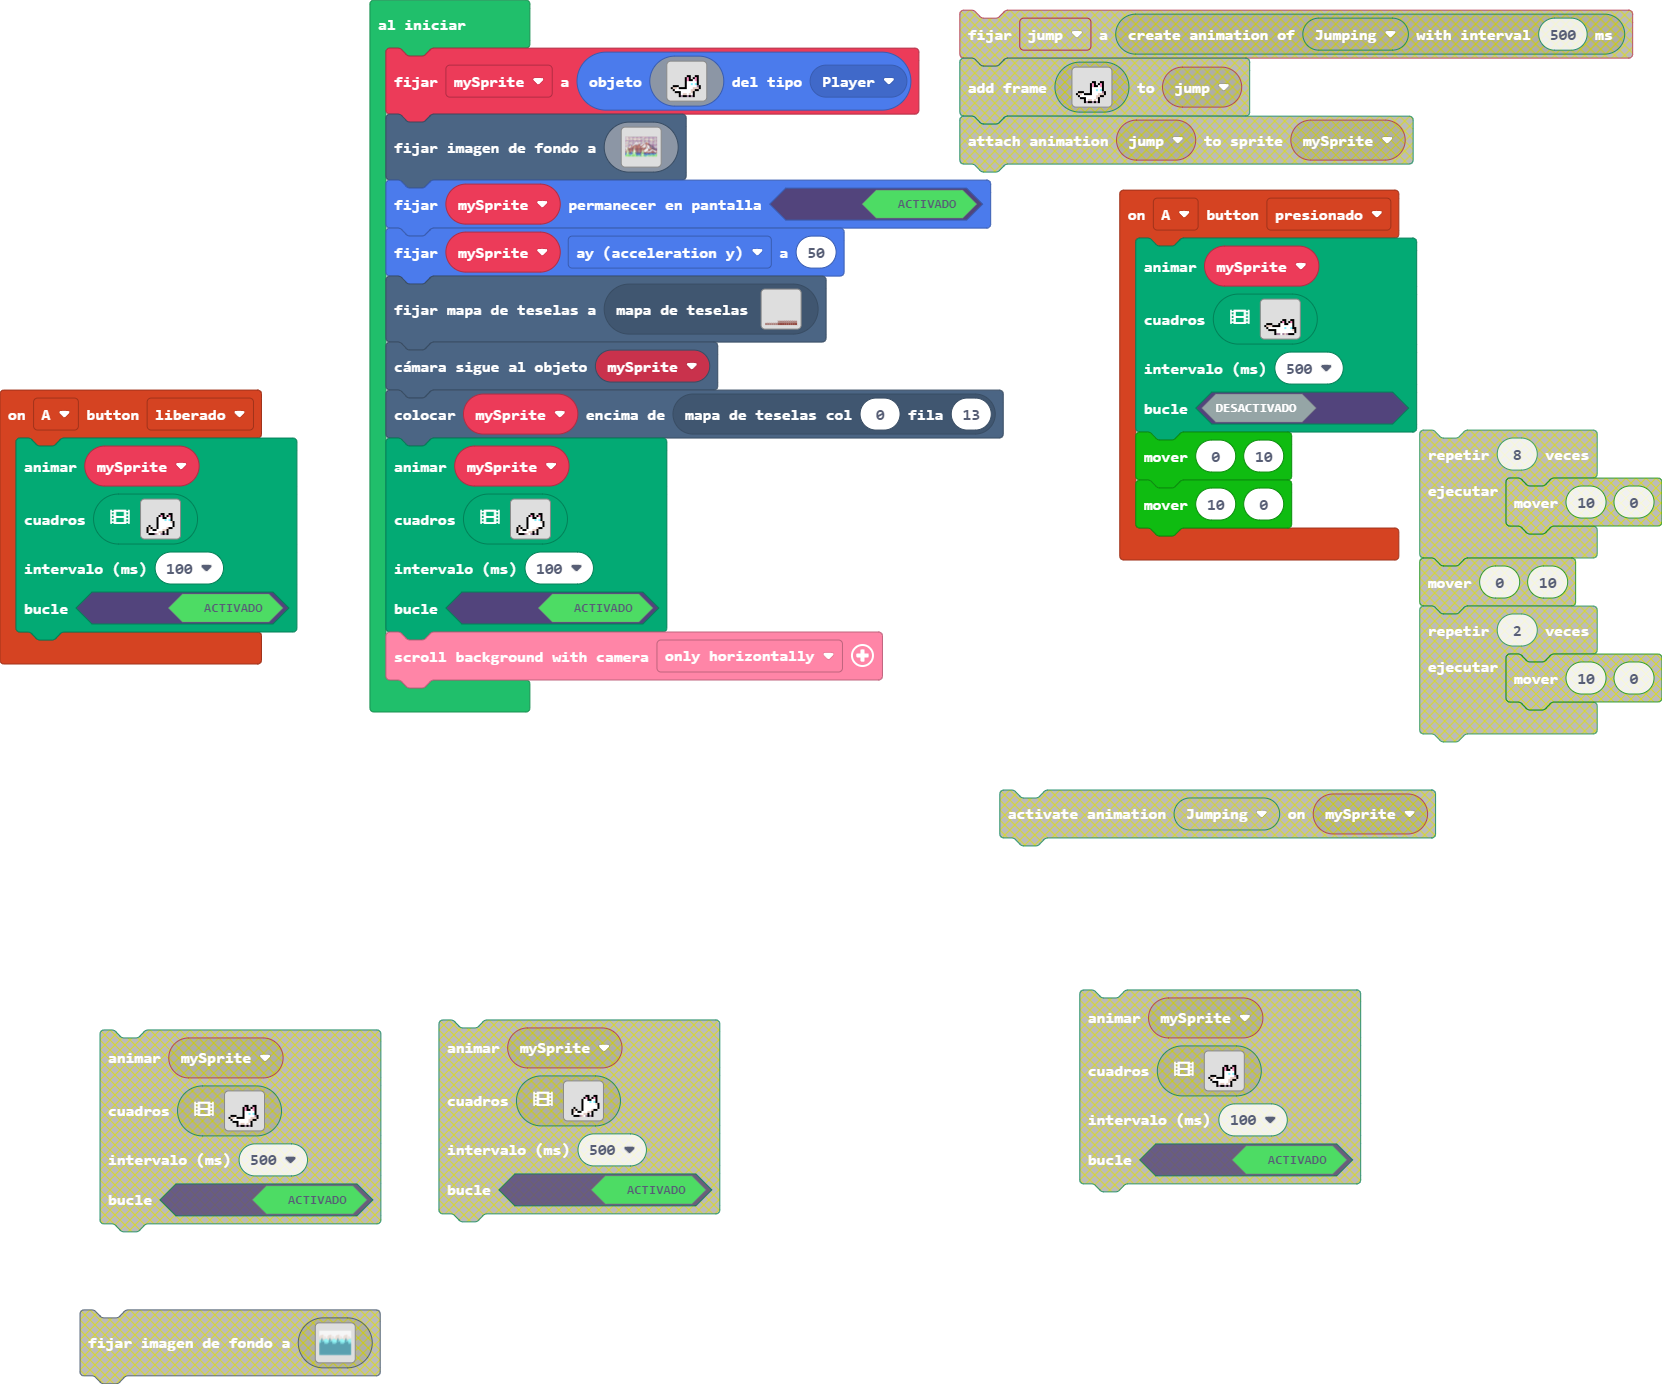
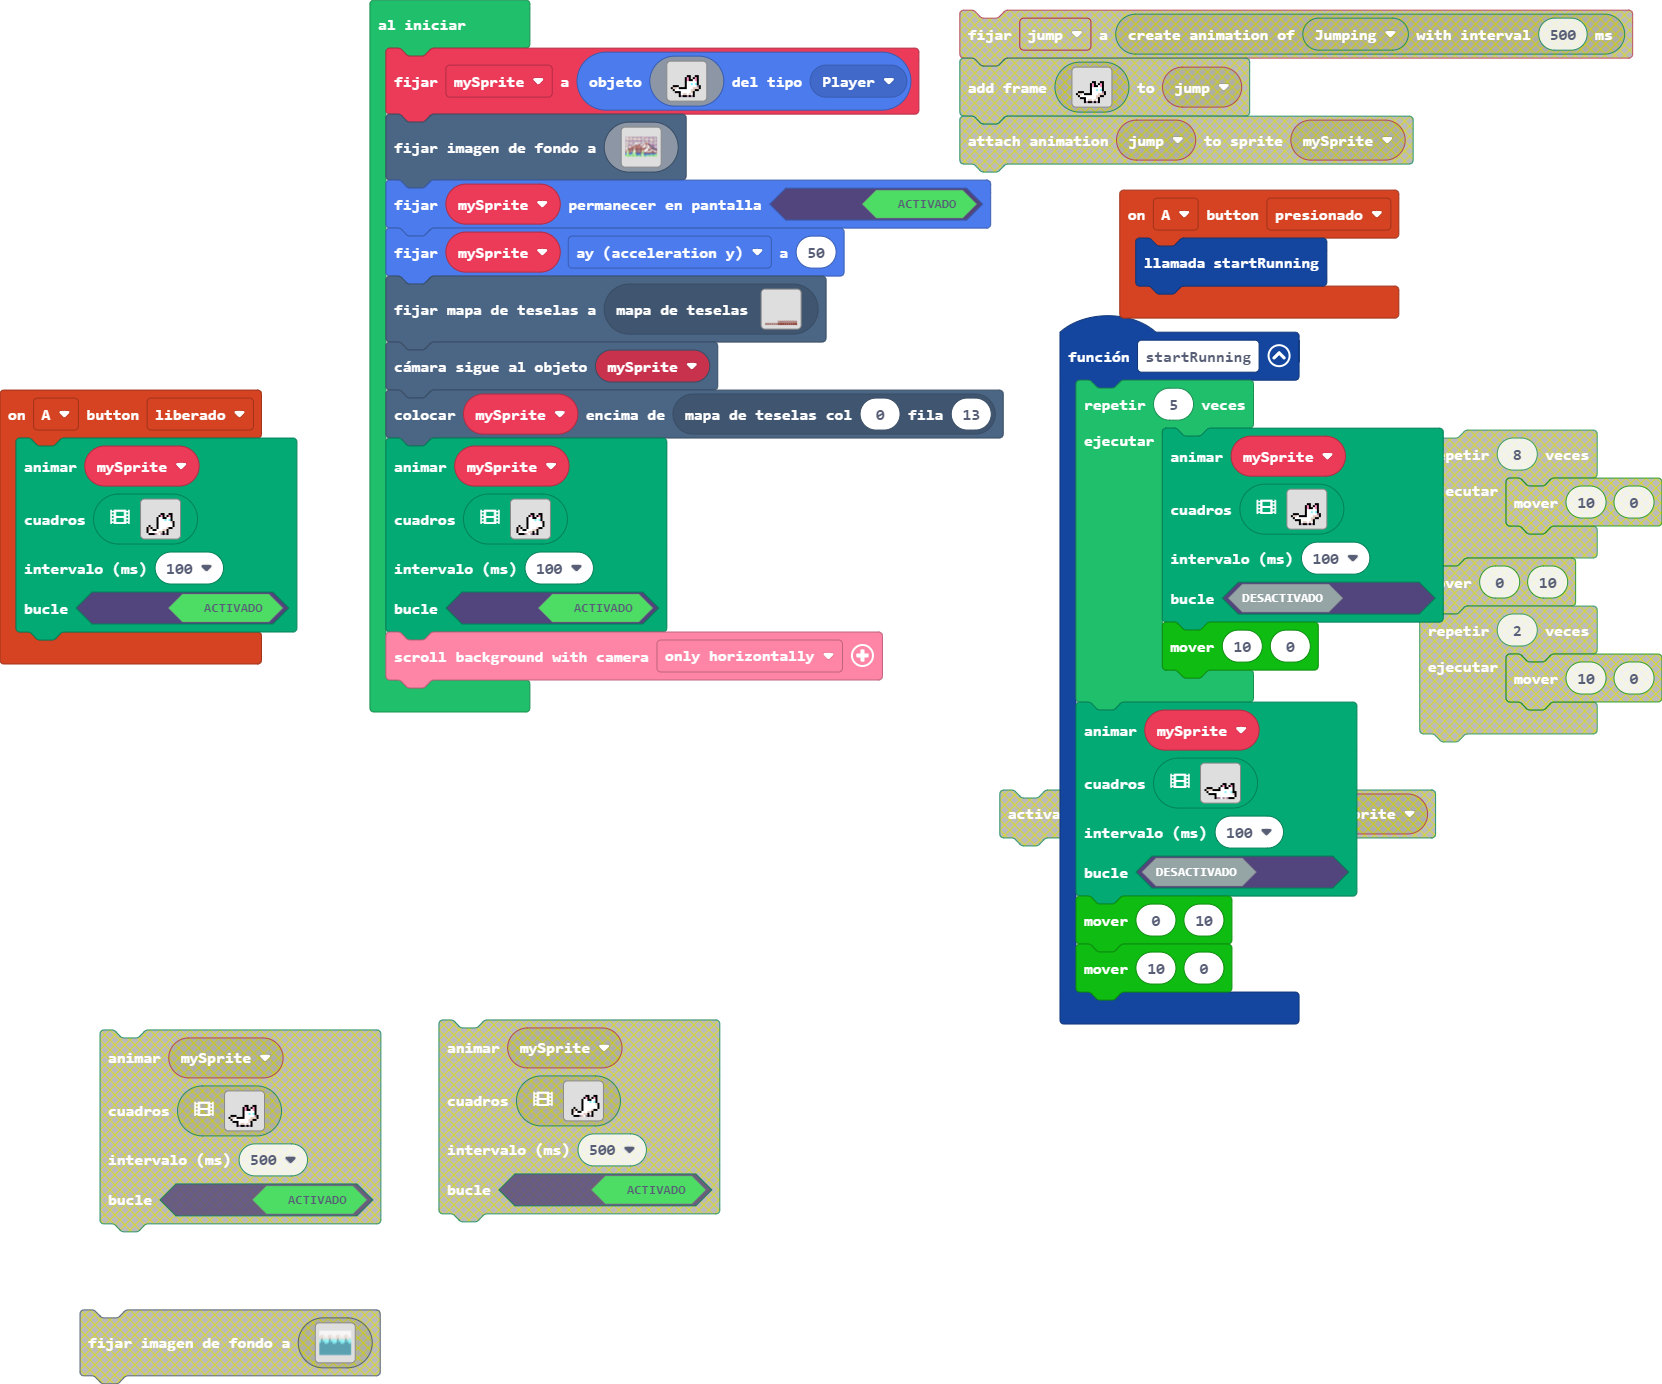
nueva funcion startRunning

Changed region(s): [[0.6137, 0.1553, 0.8899, 0.8699]]

diff --git a/main.ts b/main.ts
@@ -4,14 +4,7 @@ enum ActionKind {
     Jumping
 }
 controller.A.onEvent(ControllerButtonEvent.Pressed, function () {
-    animation.runImageAnimation(
-    mySprite,
-    assets.animation`Jumping`,
-    500,
-    false
-    )
-    custom.mover(0, 10)
-    custom.mover(10, 0)
+    startRunning()
 })
 controller.A.onEvent(ControllerButtonEvent.Released, function () {
     animation.runImageAnimation(
@@ -21,6 +14,25 @@ controller.A.onEvent(ControllerButtonEvent.Released, function () {
     true
     )
 })
+function startRunning () {
+    for (let index = 0; index < 5; index++) {
+        animation.runImageAnimation(
+        mySprite,
+        assets.animation`Walking`,
+        100,
+        false
+        )
+        custom.mover(10, 0)
+    }
+    animation.runImageAnimation(
+    mySprite,
+    assets.animation`Jumping`,
+    100,
+    false
+    )
+    custom.mover(0, 10)
+    custom.mover(10, 0)
+}
 let mySprite: Sprite = null
 mySprite = sprites.create(assets.image`snow_fox`, SpriteKind.Player)
 scene.setBackgroundImage(assets.image`background`)
